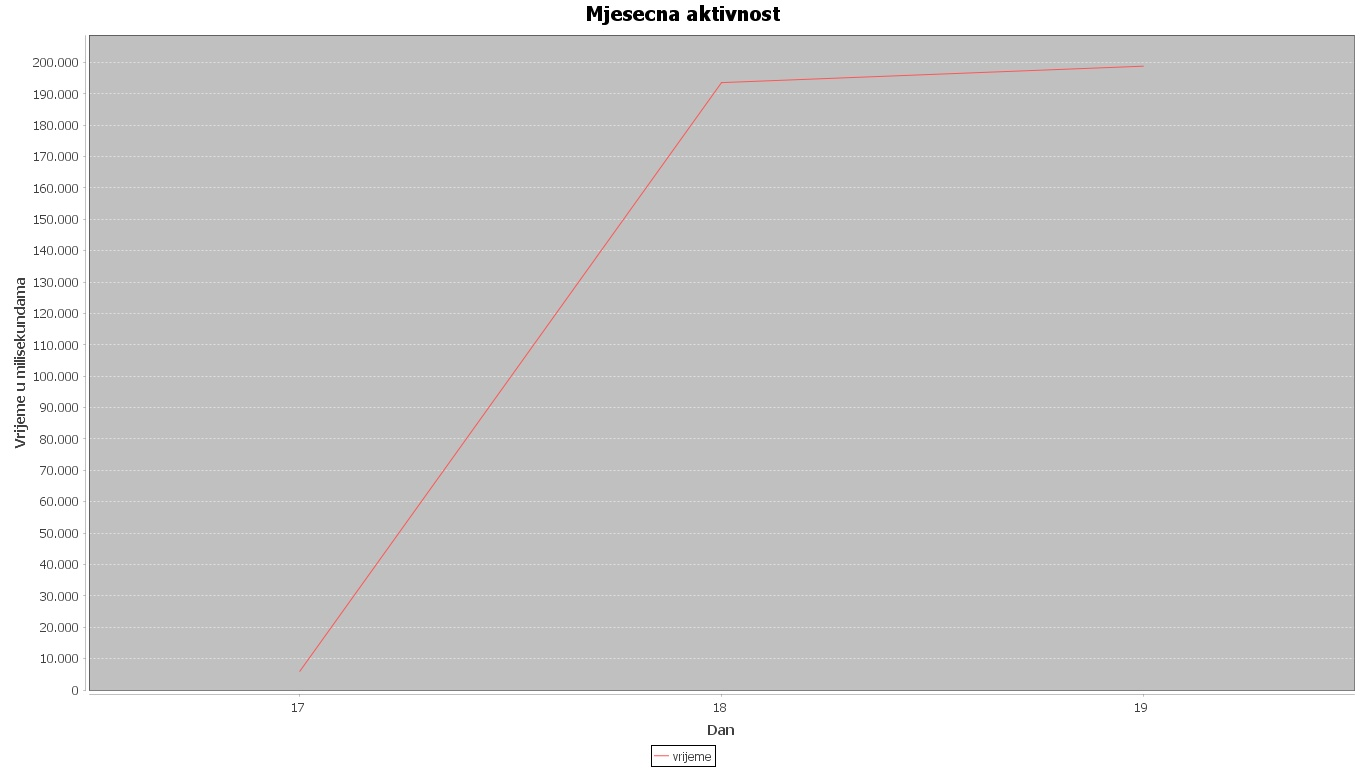
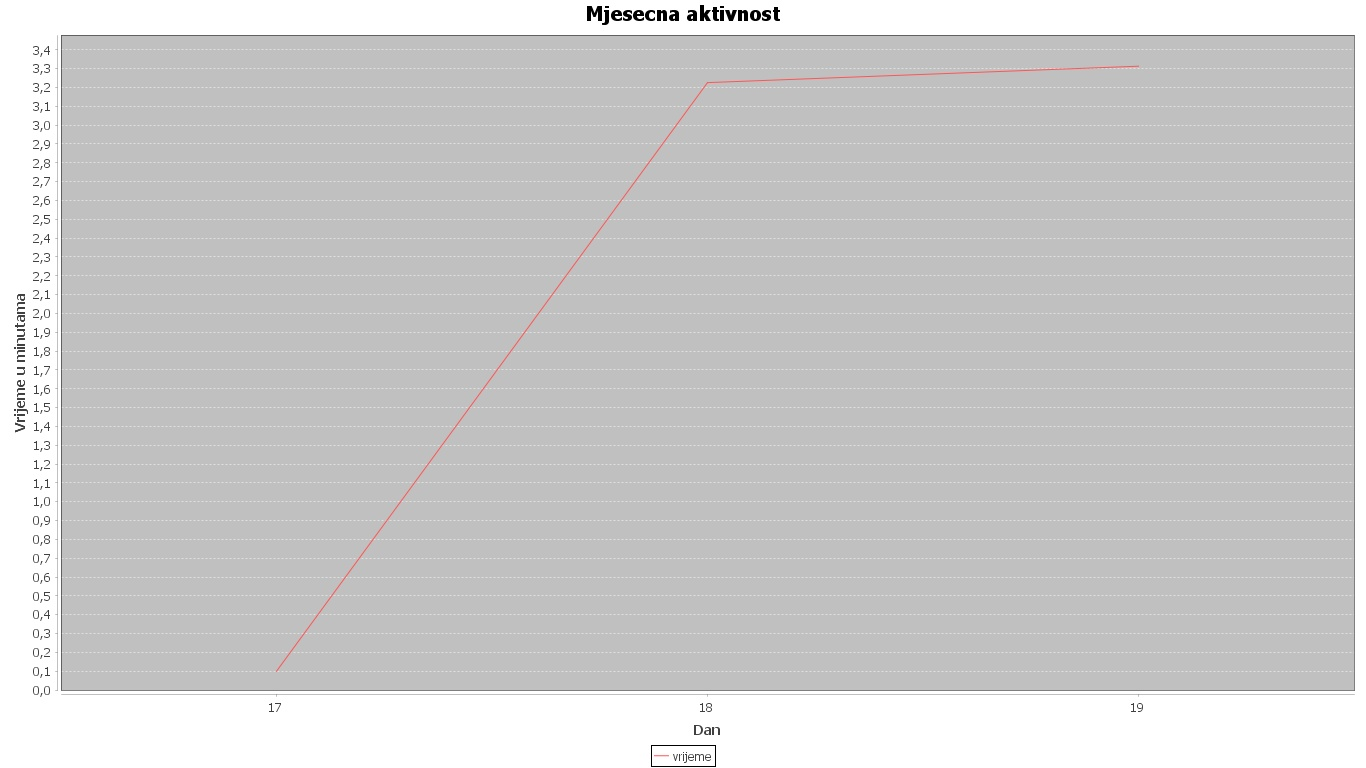
graf za pregled aktivnosti se sada prikazuje u minutama

diff --git a/PhysicalActivityMVC/src/main/java/com/josip/physical/activity/summary/LineChart.java b/PhysicalActivityMVC/src/main/java/com/josip/physical/activity/summary/LineChart.java
@@ -43,14 +43,17 @@ public class LineChart {
     	
     		String datum1=summaryActivity.getDatum().trim();
     		String datum2=datum1.substring(8,11);
-    		line_chart_dataset.addValue( summaryActivity.getUkupnoVrijeme() , "vrijeme" , datum2);
+    		double sekunde=summaryActivity.getUkupnoVrijeme()/1000;
+    		double minute=sekunde/60;
+    		
+    		line_chart_dataset.addValue( minute , "vrijeme" , datum2);
     	
 		}
         indeks+=broj;
         broj=0;
     	JFreeChart lineChartObject = ChartFactory.createLineChart(
     	"Mjesecna aktivnost","Dan",
-    	"Vrijeme u milisekundama",
+    	"Vrijeme u minutama",
     	line_chart_dataset,PlotOrientation.VERTICAL,
     	true,true,false);
     	int width = 1366; /* Width of the image */
